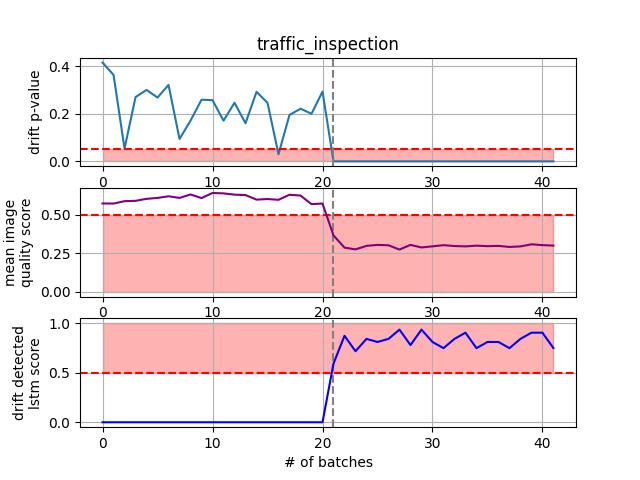
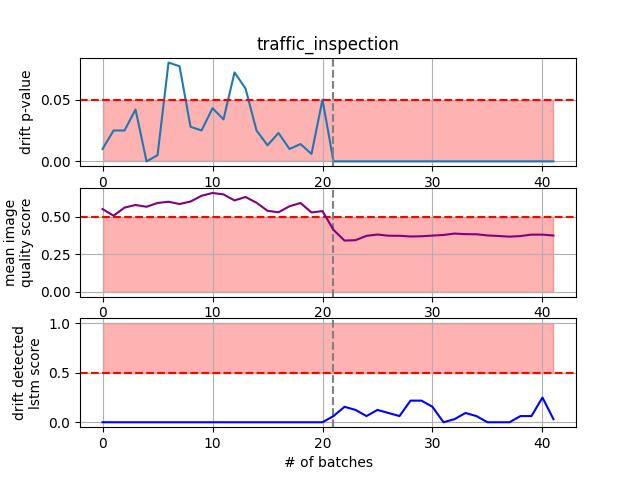
added deterministic crop only for ddrift, dataloader has full size frames

diff --git a/main.py b/main.py
@@ -24,6 +24,7 @@ import csv
 import matplotlib.pyplot as plt
 from dotmap import DotMap
 from copy import deepcopy
+from random import shuffle
 
 logger = logging.getLogger(__name__)
 
@@ -177,6 +178,8 @@ def load_drd(ddetector_dts: DataLoader,
         param.requires_grad = False
 
     for bim, _ in tqdm(ddetector_dts, desc="Drift fit"):
+        bim =  T.FiveCrop(size=360)(bim)
+        bim  = torch.cat(bim, dim=0)
         inp = feat_ext(bim.to(device))
         inp = inp.reshape(bim.shape[0], -1)
         ddetect.fit(inp)
@@ -280,9 +283,10 @@ if __name__ == "__main__":
             arniqa_outputs = compute_quality_score(
                 model_arniqa, bimages.to(device),
                 )
-            dd_in = model_drd(bimages.to(device))
-
-            dd_in = dd_in.reshape(bimages.shape[0], -1)
+            bim = T.FiveCrop(size=360)(bimages)
+            bim  = torch.cat(bim, dim=0)
+            dd_in = model_drd(bim.to(device))
+            dd_in = dd_in.reshape(bim.shape[0], -1)
             pv = ddetect.forward(dd_in).item()
             if pv>0:
                 print("NO drift detected:",pv)

diff --git a/dataloaders.py b/dataloaders.py
@@ -50,6 +50,7 @@ class VideoFootage(Dataset):
         image = Image.open(self.image_paths[idx])
 
         preproc = T.Compose([
+            # T.CenterCrop(size=min(image.size[1:])),
             T.ToImage(), T.ToDtype(torch.float32, scale=True),
             T.Normalize(mean=[0.485, 0.456, 0.406], std=[0.229, 0.224, 0.225])
         ])
@@ -73,7 +74,6 @@ class VideoFootage(Dataset):
 
         # image = T.RandomRotation([-10,10])(image)
 
-        image = T.RandomCrop(size=min(image.shape[1:]))(image)
         return image, label
 
 class kadid10k(Dataset):
